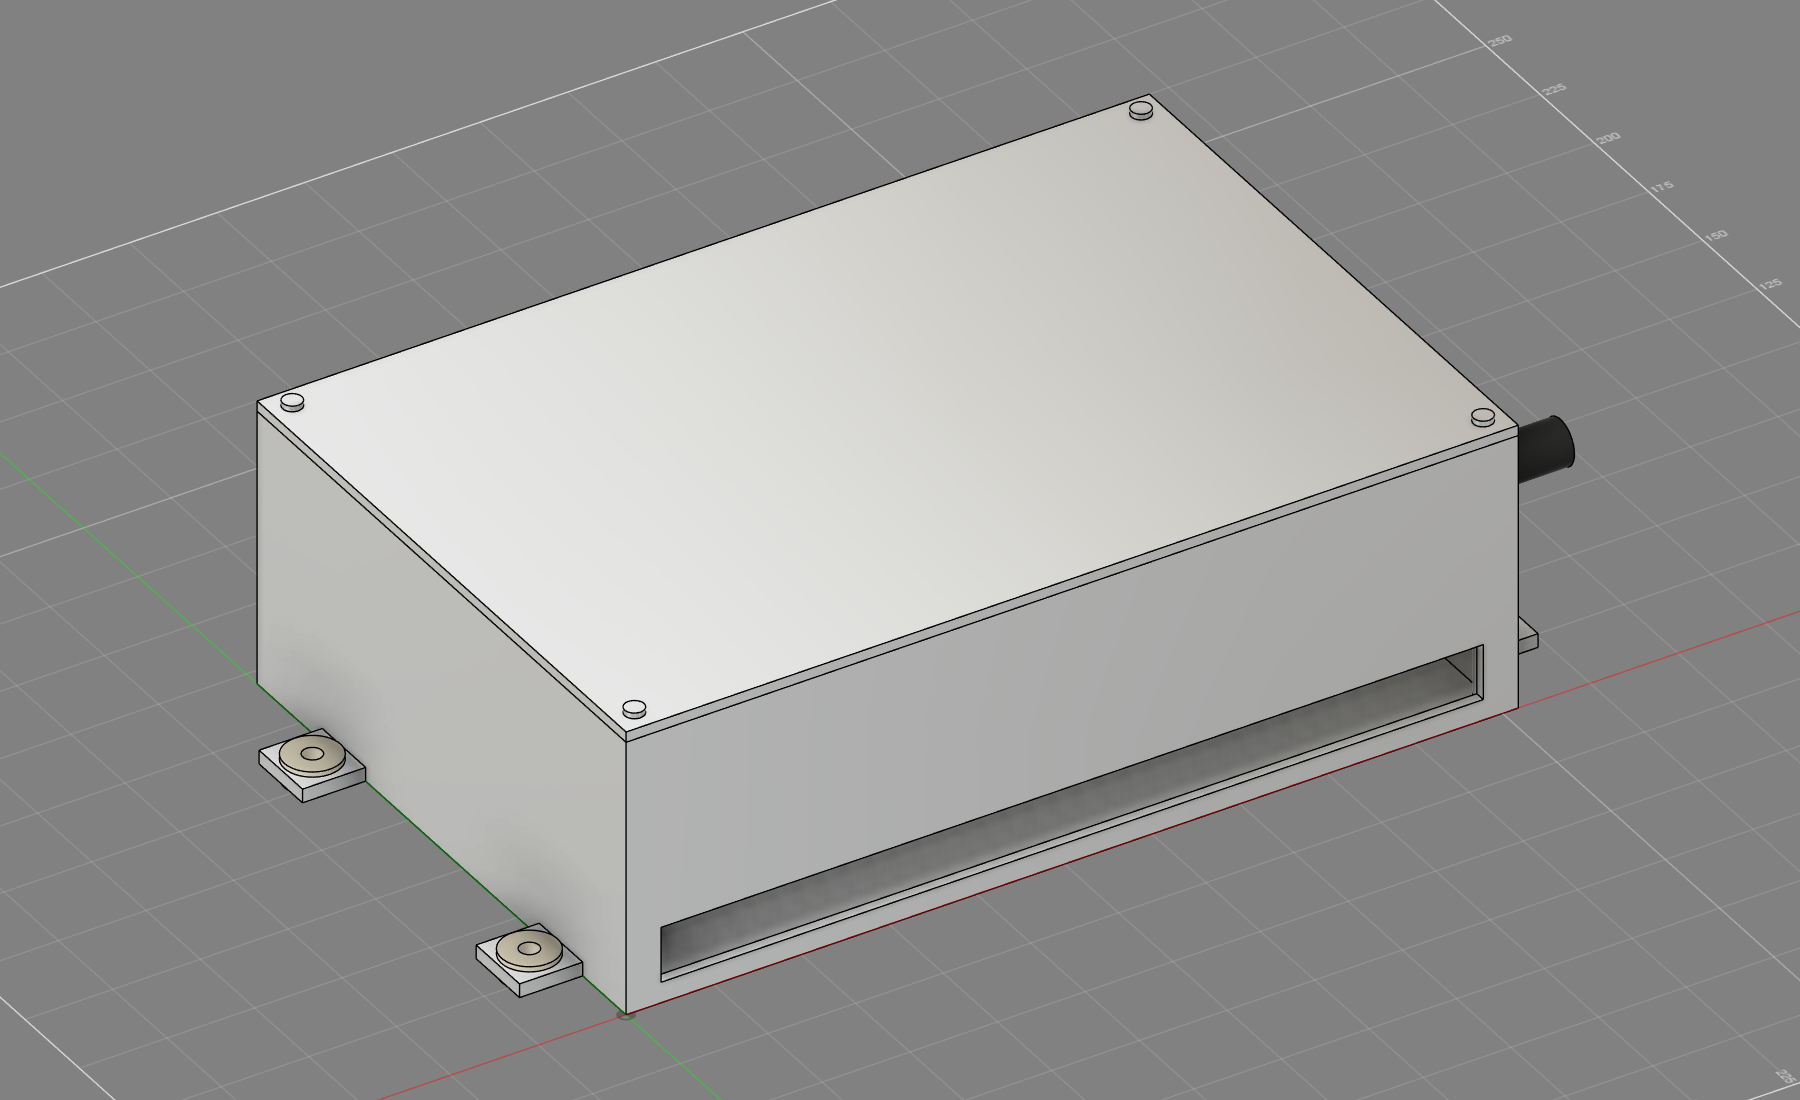
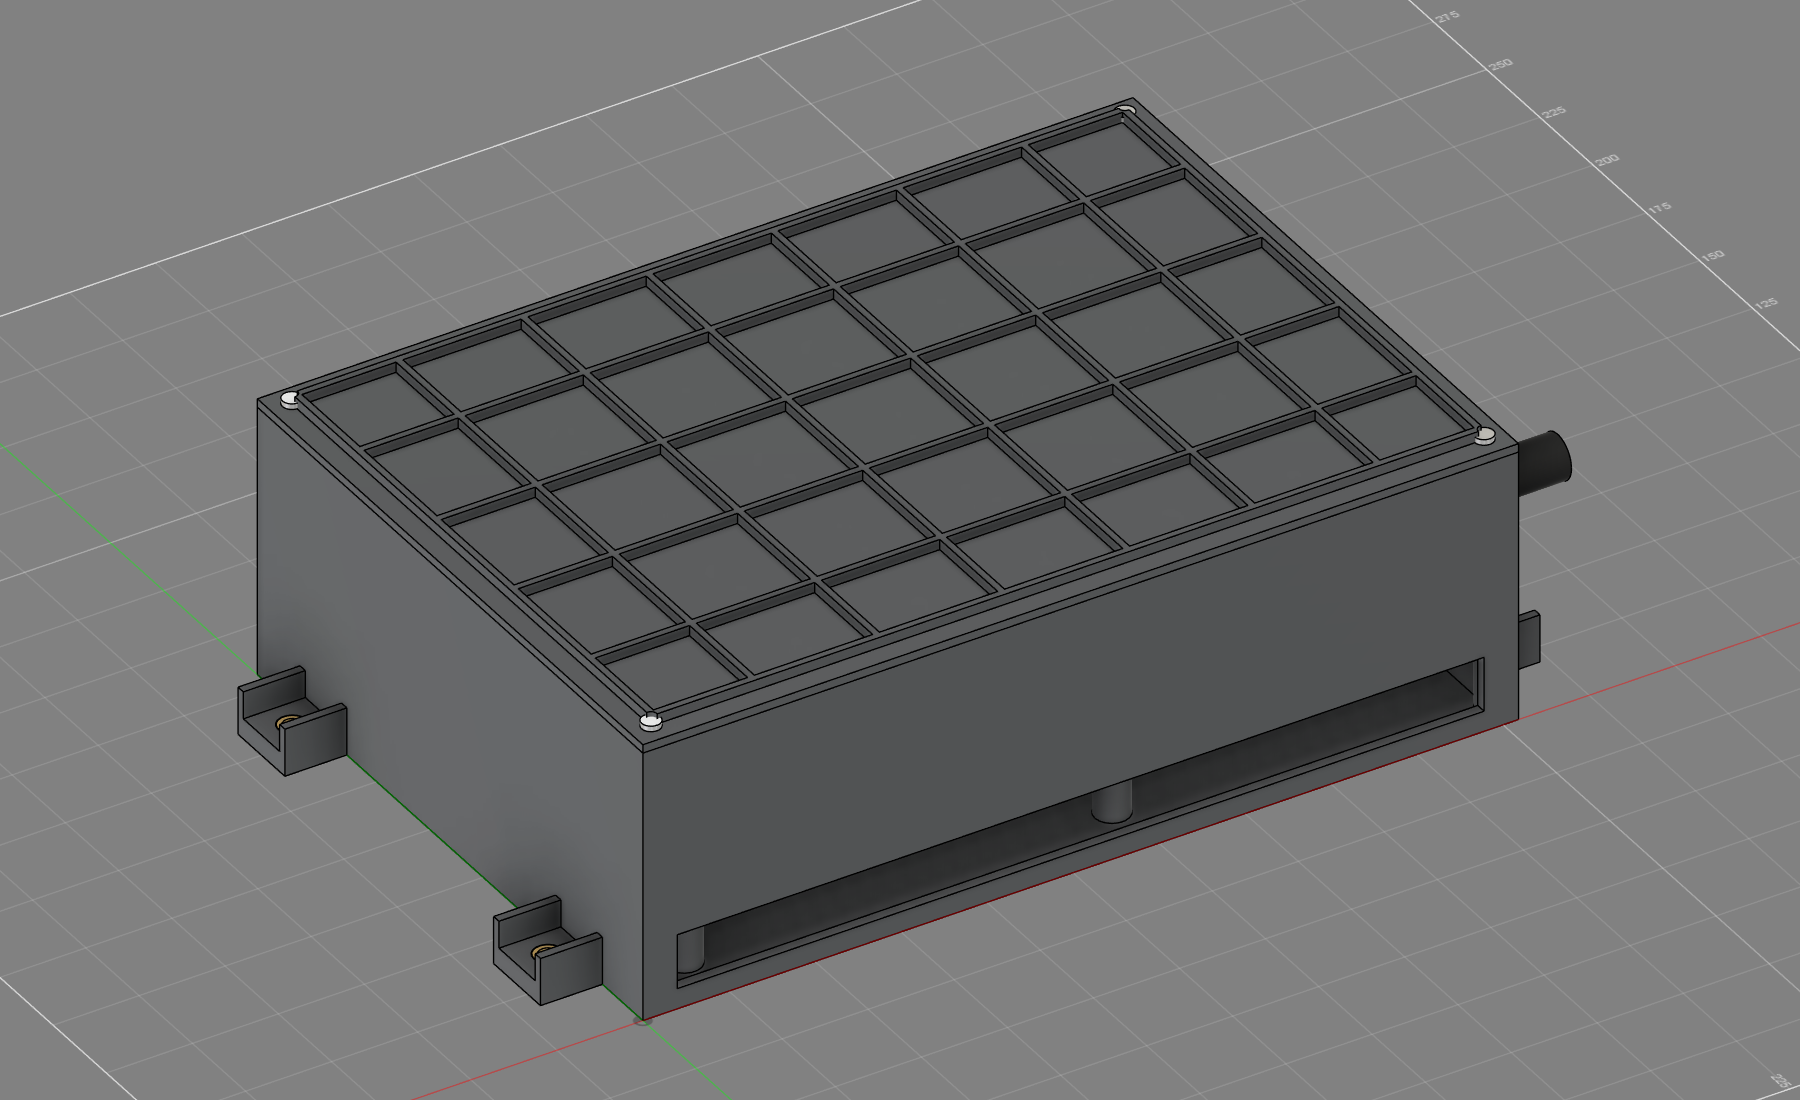
cad(fusebox): rev 2 renders, report, summary page

diff --git a/cad/fusebox/ST185-fusebox-summary.html b/cad/fusebox/ST185-fusebox-summary.html
@@ -13,31 +13,35 @@ figcaption{color:var(--mut);font-size:13px}.kpi{display:flex;flex-wrap:wrap;gap:
 .kpi div{background:var(--card);border:1px solid var(--line);border-radius:8px;padding:8px 12px;min-width:150px}
 .kpi b{display:block;font-size:20px}ol li{margin-bottom:6px}
 </style></head><body><main>
-<h1>ST185 glove-box fuse + relay box - CAD rev 1</h1>
-<p class="mut">Claude Code, 2026-10-14. One custom box (plan rev 2), modeled in Fusion from maker drawings. Dan's answers applied: L1 AMI studs (R71), L4 smallest sensible footprint (R72), L5 custom box (R70). Fusion: <code>ST185_fusebox_rev1</code> (Default Project). Model files (STEP / STL / f3d) are local, untracked, in <code>cad/fusebox/</code> of the main checkout. Build: <code>cad/fusebox/src/</code>.</p>
+<h1>ST185 glove-box fuse + relay box - CAD rev 2 (printed)</h1>
+<p class="mut">Claude Code, 2026-10-14. One custom box (plan rev 2). Rev 2: tray, deck and lid are PA12 printed by powder-bed fusion (Dan's HP printer, R73); only the current-carrying parts are metal. Dan's answers: L1 AMI studs (R71), L4 smallest sensible footprint (R72), L5 custom box (R70). Fusion: <code>ST185_fusebox_rev2</code> (Default Project; rev 1 aluminium version kept there as history). Model files (STEP / STL / f3d) are local, untracked, in <code>cad/fusebox/</code> of the main checkout. Build: <code>cad/fusebox/src/</code>.</p>
 <div class="kpi">
-<div>Outer size<b>254.5 x 170.0 x 82.5</b><span class="mut">mm, L x D x H closed</span></div>
+<div>Outer size<b>254.5 x 181.0 x 85.0</b><span class="mut">mm, L x D x H closed</span></div>
 <div>With ears<b>290.5 mm</b><span class="mut">long</span></div>
-<div>Footprint<b>43,265 mm&sup2;</b><span class="mut">21 % less than plan rev 2 (370 x 148)</span></div>
+<div>Footprint<b>46,064 mm&sup2;</b><span class="mut">16 % less than plan rev 2 (370 x 148)</span></div>
 <div>Positions<b>15 AMI / 26 mini</b><span class="mut">7 F7 / 10 micro</span></div>
 </div>
 <figure><img src="fusebox_render_iso_open.png" alt="Lid off, from the forward / inboard corner. Forward wall: wire exit strip. Outboard end: 1/0 grommet."><figcaption>Lid off, from the forward / inboard corner. Forward wall: wire exit strip. Outboard end: 1/0 grommet.</figcaption></figure>
 <figure><img src="fusebox_render_top_open.png" alt="Top view, forward edge at the bottom. Left to right: logic zone (mini fuses, micro relays), F7 relays, AMI power zone."><figcaption>Top view, forward edge at the bottom. Left to right: logic zone (mini fuses, micro relays), F7 relays, AMI power zone.</figcaption></figure>
-<h2>How it is built</h2><ul><li><b>Tray + lid:</b> machined 6061, same style as the VRC / CSB3 enclosures. A 22 mm cable bay under the deck; every wire leaves through one grommet strip in the forward (firewall) wall. The 1/0 feed enters through its own grommet in the outboard end wall.</li><li><b>Isolation:</b> no conductor touches the aluminium. The printed PA6-GF deck carries every terminal, the bar and the pads; the box itself is isolated from the body by nylon shoulder washers on the 4 ears.</li><li><b>Power zone (outboard):</b> one 25 x 6 aluminium bar along the depth, M8 1/0 input at its forward end, AMI fuses on both sides. Inboard row feeds the F7 relays (short internal leads); outboard row is the direct outputs. Each output stud sits on an aluminium pad with a ring-lug inset machined in (bus bar design B style): the lug drops into the pocket, the fuse ear clamps it, the barrel exits straight into a wire hole through the deck.</li><li><b>F7 relays (middle):</b> 2 x 4 grid; the 8th spot is the ACPS mini fuse, beside the heater relay (L3B).</li><li><b>Logic zone (inboard):</b> Bus 1 and Bus 2 mini-fuse columns (8.1 mm pitch) on 8 x 4 aluminium strips inside the deck, then 10 micro relay positions.</li></ul>
+<h2>Printed parts (PA12, powder-bed)</h2><div class="wrap"><table><tr><th>Part</th><th>File (STL + STEP)</th><th>Size mm (L x D x H)</th><th>Volume / mass</th><th>What it is</th></tr>
+<tr><td>Tray</td><td><code>Tray_PA12_printed.stl</code><br><code>Tray_PA12_printed.step</code></td><td>290.5 x 181.0 x 79.5</td><td>394.5 cm&sup3; / ~398 g</td><td>Open-top tub, 3 mm walls and floor, 4 gusseted mounting ears (brass limiter in each), 4 deck posts and 4 corner bosses with M3 heat-set inserts. Forward wire-exit slot, 1/0 grommet hole in the outboard end.</td></tr>
+<tr><td>Deck</td><td><code>Deck_PA12_printed.stl</code><br><code>Deck_PA12_printed.step</code></td><td>247.6 x 174.1 x 26.0</td><td>516.0 cm&sup3; / ~521 g</td><td>8 mm top plate on a 3 mm skirt; terminal-cavity towers under every relay / fuse group; 4 ribs under the power zone run front-to-back (with the wires). Open underneath: no closed cavity, no trapped powder.</td></tr>
+<tr><td>Lid</td><td><code>Lid_PA12_printed.stl</code><br><code>Lid_PA12_printed.step</code></td><td>254.5 x 181.0 x 5.5</td><td>131.3 cm&sup3; / ~133 g</td><td>2.5 mm plate with a 2 x 3 mm rib grid on top (stops a flat PA12 plate warping); 4 M3 screws into the tray inserts.</td></tr>
+</table></div><p class="mut">Mass at the HP PA12 part density 1.01 g/cm&sup3;. Metal parts are exported as STEP only (<code>Bar_Power_Al6061_25x6</code>, <code>Pad_Out_Al6061</code>, <code>Strip_Logic_Al6061_8x4</code>) plus the whole assembly (<code>ST185_fusebox_rev2_assembly.step</code>).</p>
+<h2>Designed for powder-bed printing</h2><ul><li><b>Walls:</b> 3 mm tray walls and floor (loaded), 2.5 mm ribs and gussets, 8 mm deck plate (4 mm under the metal pockets), 2.5 mm lid plus ribs. Nothing under 2.0 mm.</li><li><b>No solid blocks:</b> the deck is a ribbed shell with towers only where the terminal cavities are; the lid is ribbed instead of thick.</li><li><b>No trapped powder:</b> every printed part is open on one side (tray top, deck underside, lid is a plate); no closed cavity, so no escape holes are needed.</li><li><b>Fits:</b> 0.45 mm per side between printed parts (deck in tray, around posts and bosses); 0.4 mm per side for metal in a printed pocket.</li><li><b>Threads:</b> none printed. M3 brass heat-set inserts in the tray (lid corners, deck posts); all power studs thread into the aluminium bar and pads.</li><li><b>Torque goes into metal:</b> the AMI nuts (4 Nm) bear on the fuse ear, lug and Al pad / bar; the stud is threaded into the Al. The bar (5 screws) and every pad (1 screw) are held down from below by M4 screws through brass compression limiters, so the clamp is screw -> brass -> Al and never crushes nylon. The mounting ears have brass limiters too.</li><li><b>Heat:</b> PA12 (HP 3D HR PA 12) deflects at 95 &deg;C under 1.82 MPa and 175 &deg;C under 0.45 MPa. The 25 x 6 Al bar (150 mm&sup2;) carries more than the 1/0 copper (53 mm&sup2;) that feeds it, so the bar runs cooler than the feed cable. Keep it below 95 &deg;C: check with a thermocouple on the bench at full load before the box goes in.</li><li><b>Live-part spacing (measured in Fusion):</b> neighbouring AMI outputs 3.0 mm apart with a printed rib between, input bar to any output 17.2 mm, 1/0 lug to the nearest output 7.3 mm, output lugs 5.5 mm apart. At 12-14 V these gaps are about keeping debris and a dropped tool from bridging, not about voltage.</li></ul>
+<h2>How it is laid out</h2><ul><li><b>Power zone (outboard):</b> one 25 x 6 aluminium bar along the depth, M8 1/0 input at its forward end, AMI fuses on both sides. Inboard row feeds the F7 relays (short internal leads); outboard row is the direct outputs. Each output stud sits on an aluminium pad with a ring-lug inset machined in (bus bar design B style).</li><li><b>F7 relays (middle):</b> 2 x 4 grid; the 8th spot is the ACPS mini fuse, beside the heater relay (L3B).</li><li><b>Logic zone (inboard):</b> Bus 1 and Bus 2 mini-fuse columns (8.1 mm pitch) on 8 x 4 aluminium strips that slide into the deck from below, then 10 micro relay positions.</li><li><b>Wiring:</b> every wire drops through the deck into the 22 mm cable bay and leaves through one grommet strip in the forward (firewall) wall.</li></ul>
 <h2>Dimensions</h2><div class="wrap"><table><tr><th>Item</th><th>mm</th><th>Source</th></tr>
-<tr><td>Box, closed (L x D x H)</td><td>254.5 x 170.0 x 82.5</td><td>model</td></tr>
+<tr><td>Box, closed (L x D x H)</td><td>254.5 x 181.0 x 85.0</td><td>model</td></tr>
 <tr><td>Cable bay / deck / parts above deck</td><td>22 / 26 / to 79.5</td><td>plan rev 2 allowance; terminal depths to set from TE drawings</td></tr>
 <tr><td>AMI fuse</td><td>41 long, 30 stud centres, body 16 x 12 x 6, hole 5.5, 4 Nm</td><td>Bussmann AMI sheet</td></tr>
-<tr><td>AMI pitch</td><td>16 (lug pocket 12.6 + 3.4 wall, gap &gt;= 3)</td><td>Klauke 2R5 b 12</td></tr>
+<tr><td>AMI pitch</td><td>17.5 (pad 14.5 + 3.0 gap)</td><td>Klauke 2R5 b 12 -&gt; pocket 12.8</td></tr>
 <tr><td>F7 relay</td><td>25.9 sq x 24.9, pitch 30 x 36</td><td>TE F7 data sheet 2023-03</td></tr>
 <tr><td>Micro relay</td><td>15.5 x 23 x 24.1, pitch 19 x 30</td><td>TE Micro Relay A 1308028</td></tr>
 <tr><td>Mini fuse</td><td>10.92 x 3.81, pitch 8.1</td><td>Bussmann ATM / Eaton 15400</td></tr>
-<tr><td>Ears</td><td>4 x 18 x 20 x 4, hole 10</td><td>model</td></tr>
+<tr><td>Ears</td><td>4 x 18 x 22 x 6, 2 gussets each, hole 8.4 for the M5 limiter</td><td>model</td></tr>
 </table></div>
-<p><b>Isolation check (Fusion, measured):</b> closest conductor to the aluminium tray 5.0 mm, to the lid 15.5 mm; tray to the mounting face 1.5 mm.</p>
 <p><b>Interference check:</b> none between parts.</p>
-<p class="mut">Masses (g): Tray_Al6061 974.5, Lid_Al6061 350.2, LidScrew_M3x10_ISO7380 3.7, Deck_PA6GF_printed 1020.6, Bar_Power_Al6061_25x6 52.5, Pad_Out_Al6061 42.2, Strip_Logic_Al6061_8x4 18.2.</p>
-<h2>Parts list (OWN / BUY)</h2><p class="mut">Order: on-hand TE list, then TE, then approved suppliers, then others with a reason (R38). "OWN" counts are qty_ordered from te-on-hand-bom.csv - confirm on the shelf.</p><div class="wrap"><table><tr><th>Part</th><th>Part number</th><th>Qty</th><th>Note</th></tr>
+<h2>Parts list (OWN / BUY)</h2><p class="mut">Order: on-hand TE list, then TE, then approved suppliers, then others with a reason (R38). "OWN" counts are qty_ordered from te-on-hand-bom.csv - confirm on the shelf. TBD = not checked against a maker sheet yet.</p><div class="wrap"><table><tr><th>Part</th><th>Part number</th><th>Qty</th><th>Note</th></tr>
 <tr><td>Relay F7 Maxi ISO, 680 ohm</td><td>1-1414147-0 (V23134-J0052-X429)</td><td>OWN 3 + BUY 1</td><td>heater, k_efi, k_fan (own); k_str (buy). te-on-hand-bom.csv: qty_ordered 3 - confirm on the shelf.</td></tr>
 <tr><td>Relay F7 Maxi ISO, bracket, 560 ohm</td><td>1-1393304-0 (V23134-J1052-X281)</td><td>OWN 2</td><td>k_fan2, power. Bracket not used in the box (cut off or fold flat).</td></tr>
 <tr><td>Micro relay A, NO, diode</td><td>5-1393292-8</td><td>OWN 2</td><td>HEAD LH / RH</td></tr>
@@ -54,16 +58,18 @@ figcaption{color:var(--mut);font-size:13px}.kpi{display:flex;flex-wrap:wrap;gap:
 <tr><td>Tubular lug 10 mm2 M5 (AMI outputs, 8-10 AWG)</td><td>Klauke 2R5</td><td>BUY 11</td><td>Same lug family as the bus bar (Klauke R); TE SOLISTRAND alternative not checked yet.</td></tr>
 <tr><td>Tubular lug 16 mm2 M5 (J/B1 HOT, 6 AWG)</td><td>Klauke 3R5</td><td>BUY 1</td><td>Hole 5.5 confirmed; tongue width NOT confirmed - pocket drawn for 12 mm.</td></tr>
 <tr><td>Tubular lug 50 mm2 M8 (1/0 input)</td><td>Klauke 6R8</td><td>BUY 1</td><td>b 20, l 47, hole 8.4 (RS 398-3015 listing).</td></tr>
-<tr><td>M5 A2 stud + Keps nut</td><td>TBD (ISO 4026 set screw M5x12 + DIN 6923 nut)</td><td>BUY 30 + 30</td><td>2 per AMI position; 4 Nm max (AMI sheet).</td></tr>
-<tr><td>M8 A2 stud + nut + washer</td><td>TBD (ISO 4026 M8x20 + ISO 4032 + ISO 7089)</td><td>BUY 1</td><td>1/0 input</td></tr>
-<tr><td>Lid screw</td><td>ISO 7380 M3x10 A2</td><td>BUY 4</td><td></td></tr>
-<tr><td>Nylon shoulder washer, M5</td><td>TBD</td><td>BUY 8</td><td>2 per ear (above + below): box isolated from the body, floats 1.5 mm.</td></tr>
-<tr><td>Tray + lid</td><td>6061-T6, machined</td><td>make</td><td>walls 3, floor 3, lid 3</td></tr>
-<tr><td>Power bar, output pads, logic strips</td><td>6061-T6 25 x 6 bar, 15 pads, 2 x 8 x 4 strips</td><td>make</td><td>ring-lug insets machined in the Al (bus bar style)</td></tr>
-<tr><td>Deck</td><td>PA6-GF, printed</td><td>make</td><td>terminal cavities + TPA comb; holds every conductor off the tray</td></tr>
+<tr><td>M5 A2 stud + Keps nut</td><td>TBD (ISO 4026 set screw M5x12 + DIN 6923 nut)</td><td>BUY 30 + 30</td><td>2 per AMI position, threaded into the Al bar / pads; 4 Nm max (AMI sheet).</td></tr>
+<tr><td>M8 A2 stud + nut + washer</td><td>TBD (ISO 4026 M8x20 + ISO 4032 + ISO 7089)</td><td>BUY 1</td><td>1/0 input, threaded into the Al bar</td></tr>
+<tr><td>Hold-down screw M4x10 A2</td><td>ISO 7380</td><td>BUY 20</td><td>From below, into tapped Al bar (5) and pads (15).</td></tr>
+<tr><td>Brass compression limiter, M4</td><td>TBD (OD 7, ID 4.3, L 4)</td><td>BUY 20</td><td>Under every hold-down: the clamp goes screw -&gt; brass -&gt; Al, never into bare nylon.</td></tr>
+<tr><td>Brass compression limiter, M5</td><td>TBD (OD 8, ID 5.3, L 6)</td><td>BUY 4</td><td>One per mounting ear.</td></tr>
+<tr><td>Brass heat-set insert, M3</td><td>TBD (hole 4.0 x 6 deep as drawn - set to the insert maker)</td><td>BUY 8</td><td>4 lid corners + 4 deck posts. No printed threads.</td></tr>
+<tr><td>Lid / deck screw</td><td>ISO 7380 M3x8 A2 (lid), M3x10 (deck)</td><td>BUY 4 + 4</td><td></td></tr>
+<tr><td>Power bar, output pads, logic strips</td><td>6061-T6: 25 x 6 bar, 15 pads, 2 strips 8 x 4</td><td>make</td><td>Ring-lug insets machined in the Al pads (bus bar style). The only metal besides studs, lugs and hardware.</td></tr>
+<tr><td>Tray, deck, lid</td><td>PA12, powder-bed (MJF / SLS)</td><td>print</td><td>See &quot;Printed parts&quot; above.</td></tr>
 </table></div>
-<h2>Open choices for Dan</h2><ol><li><b>One box or two?</b> The task card says "the 2 custom boxes"; plan rev 2 (your 10-13 answer, fewer boxes) is ONE box. Modeled as one. Splitting it at the F7 column gives a 182 mm power box and a 78 mm logic box, same depth.</li><li><b>Power bar metal:</b> aluminium 6061 here (matches the bus bar). Plan rev 2 said copper C110 25 x 3. Copper carries more current for its size; aluminium is lighter and the same metal as the bus bar. 25 x 6 Al (150 mm2) carries more than the 1/0 copper (53 mm2) that feeds it.</li></ol>
-<h2>Not done yet (detail work, after your OK)</h2><ul><li>Terminal cavity shapes, TPA comb and front stops from the TE terminal drawings (cavities are placeholders at the right pin pattern).</li><li>Deck and bar hold-down screws, lid gasket, molded labels; internal leads (relay-feed AMI to F7 pin 30, Bus 1 / Bus 2 links).</li><li>Section renders (the section step ran Fusion out of memory and was dropped for rev 1), drawings (PDF), and the CabinPower redraw (R70).</li></ul>
-<figure><img src="fusebox_render_iso_closed.png" alt="Closed, 4 isolated mounting ears."><figcaption>Closed, 4 isolated mounting ears.</figcaption></figure>
+<h2>Open choices for Dan</h2><ol><li><b>One box or two?</b> The task card says "the 2 custom boxes"; plan rev 2 (your 10-13 answer, fewer boxes) is ONE box. Modeled as one. Splitting it at the F7 column gives an about 182 mm power box and an about 78 mm logic box, same depth - and two smaller prints.</li><li><b>Power bar metal:</b> aluminium 6061 here (matches the bus bar). Plan rev 2 said copper C110. Copper carries more current for its size; aluminium is lighter and the same metal as the bus bar.</li><li><b>PA12 or a glass-filled grade?</b> Plain PA12 assumed. HP's PA12 GB (glass beads) is stiffer but more brittle - say if your shop prefers it near the bar.</li></ol>
+<h2>Not done yet (detail work, after your OK)</h2><ul><li>Terminal cavity shapes, TPA comb and front stops from the TE terminal drawings (cavities are placeholders at the right pin pattern).</li><li>Exact heat-set insert and compression-limiter part numbers (hole sizes drawn as placeholders); lid seal; molded labels; internal leads (relay-feed AMI to F7 pin 30, Bus 1 / Bus 2 links).</li><li>Section renders (that Fusion step ran out of memory in rev 1 and stays off), drawings, and the CabinPower redraw (R70).</li></ul>
+<figure><img src="fusebox_render_iso_closed.png" alt="Closed: ribbed PA12 lid, 4 gusseted ears with brass limiters."><figcaption>Closed: ribbed PA12 lid, 4 gusseted ears with brass limiters.</figcaption></figure>
 <figure><img src="fusebox_render_iso_open_rear.png" alt="From the rear / outboard corner."><figcaption>From the rear / outboard corner.</figcaption></figure>
 </main></body></html>
